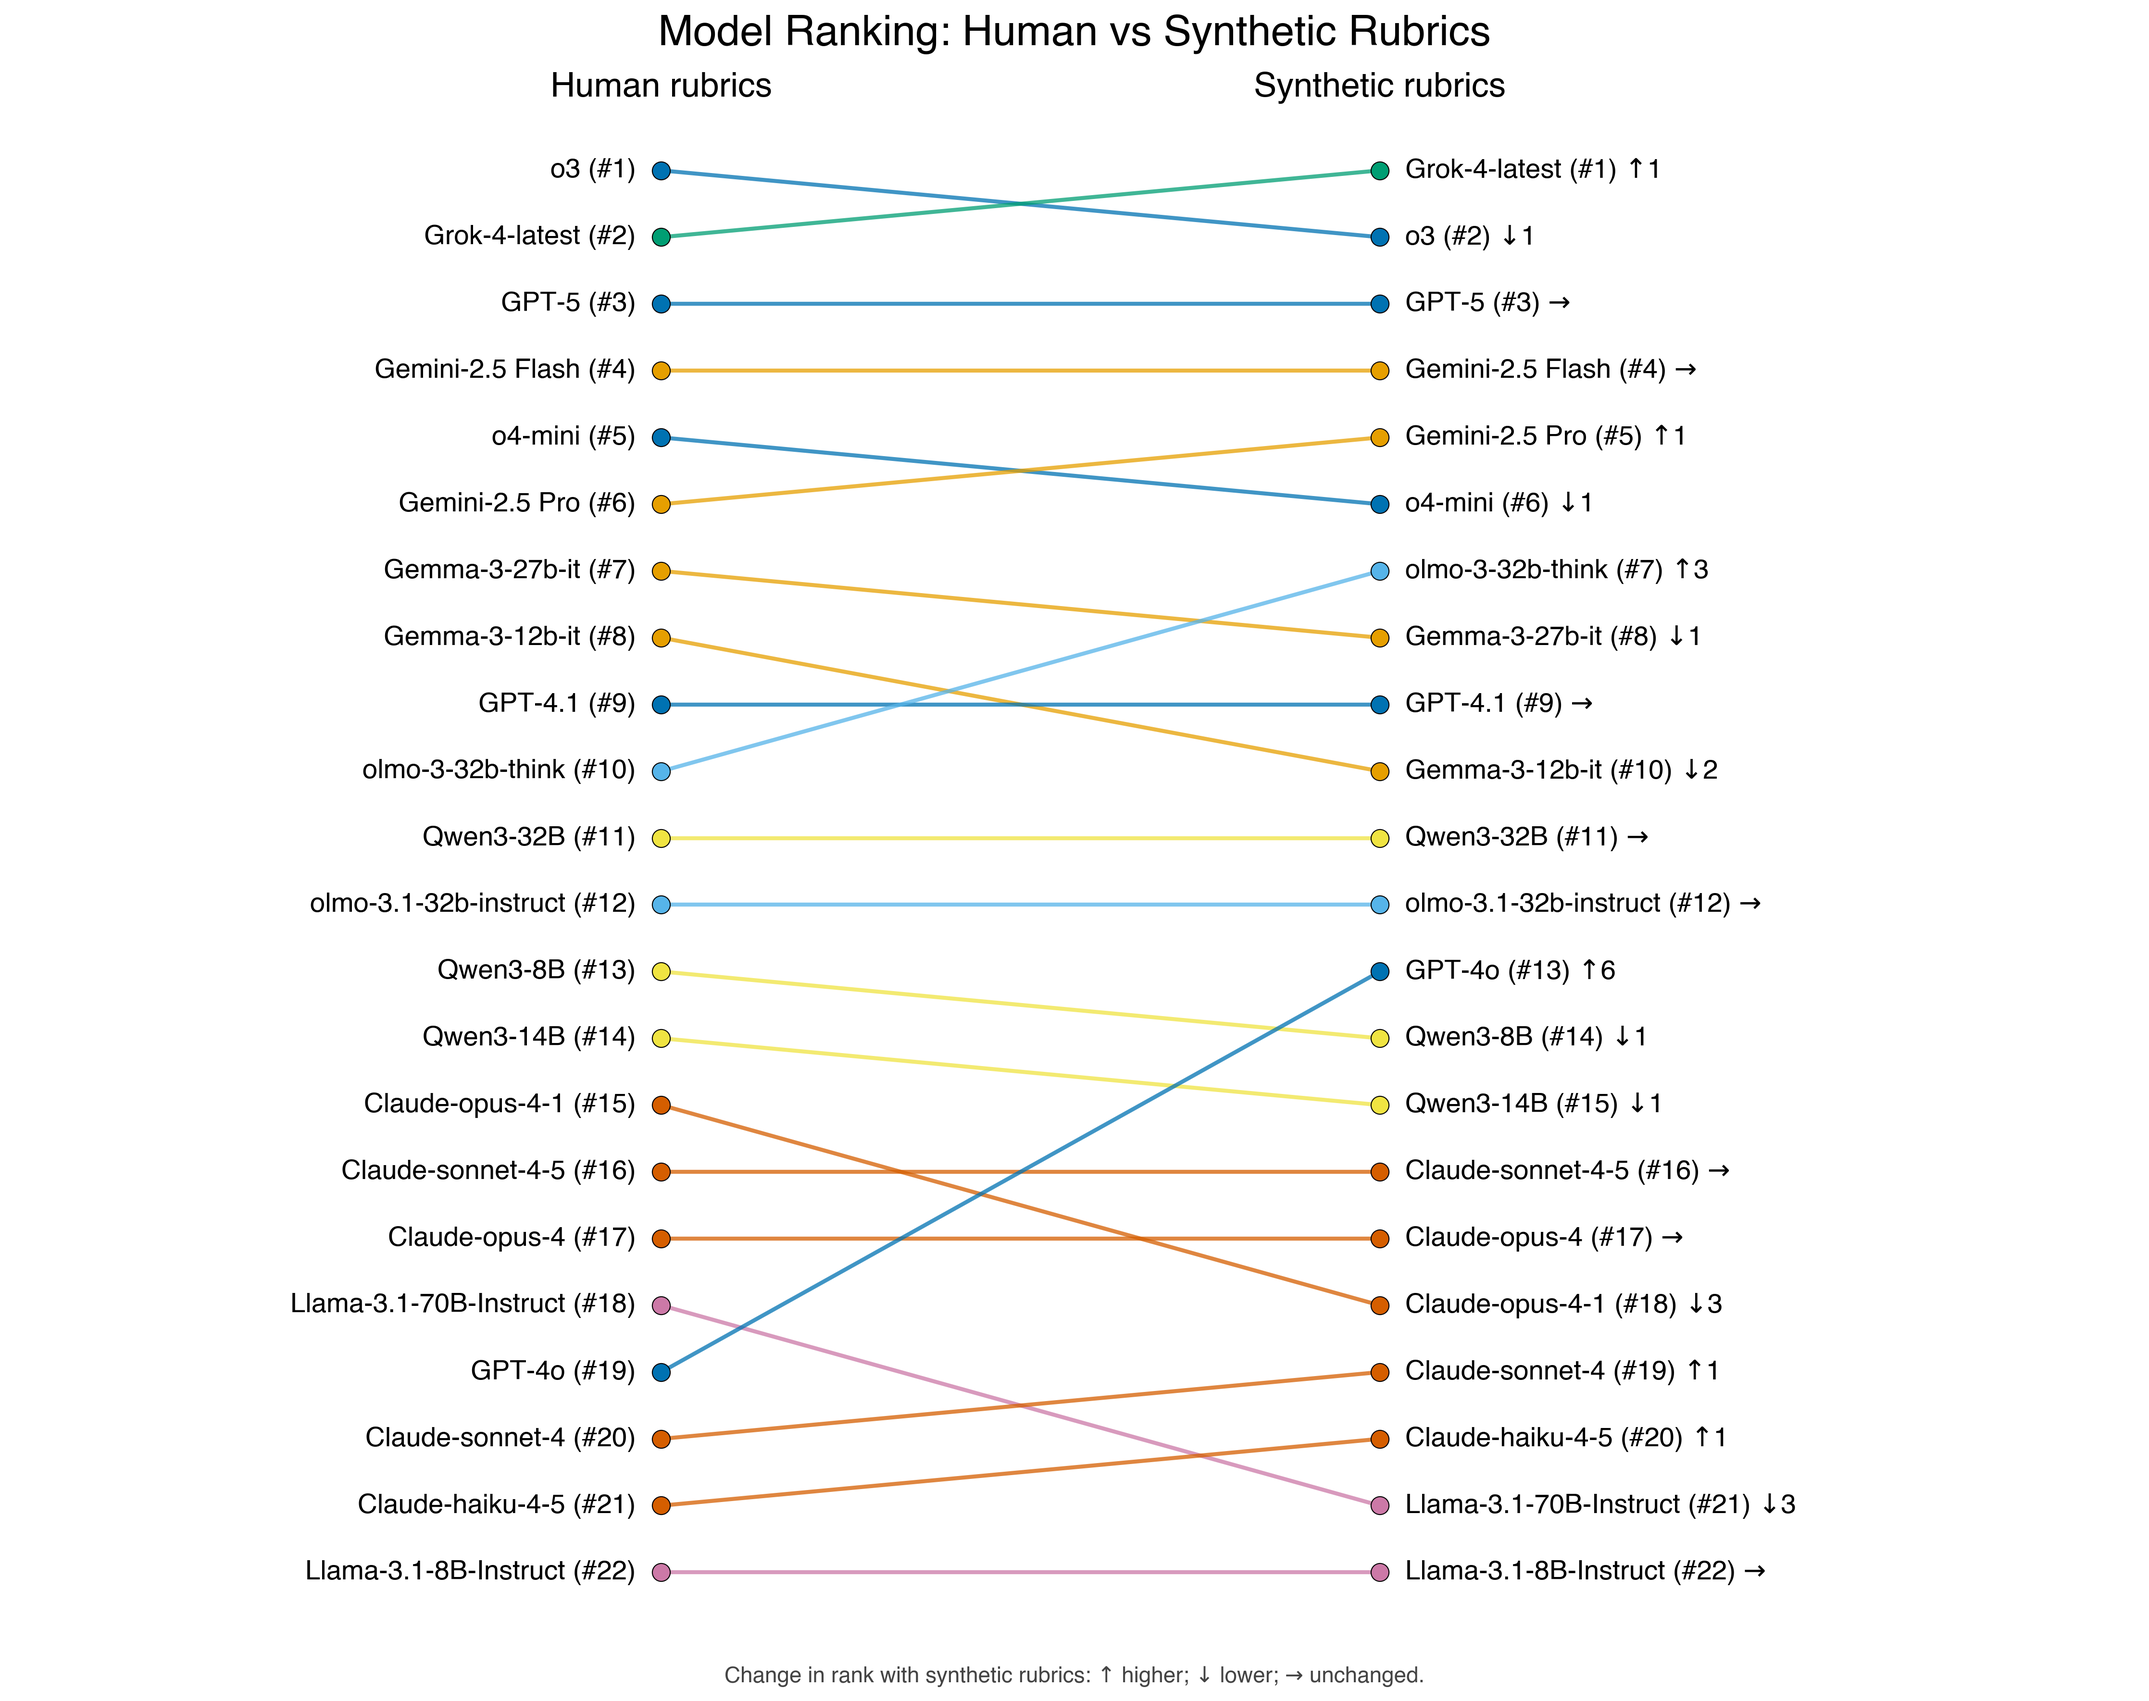
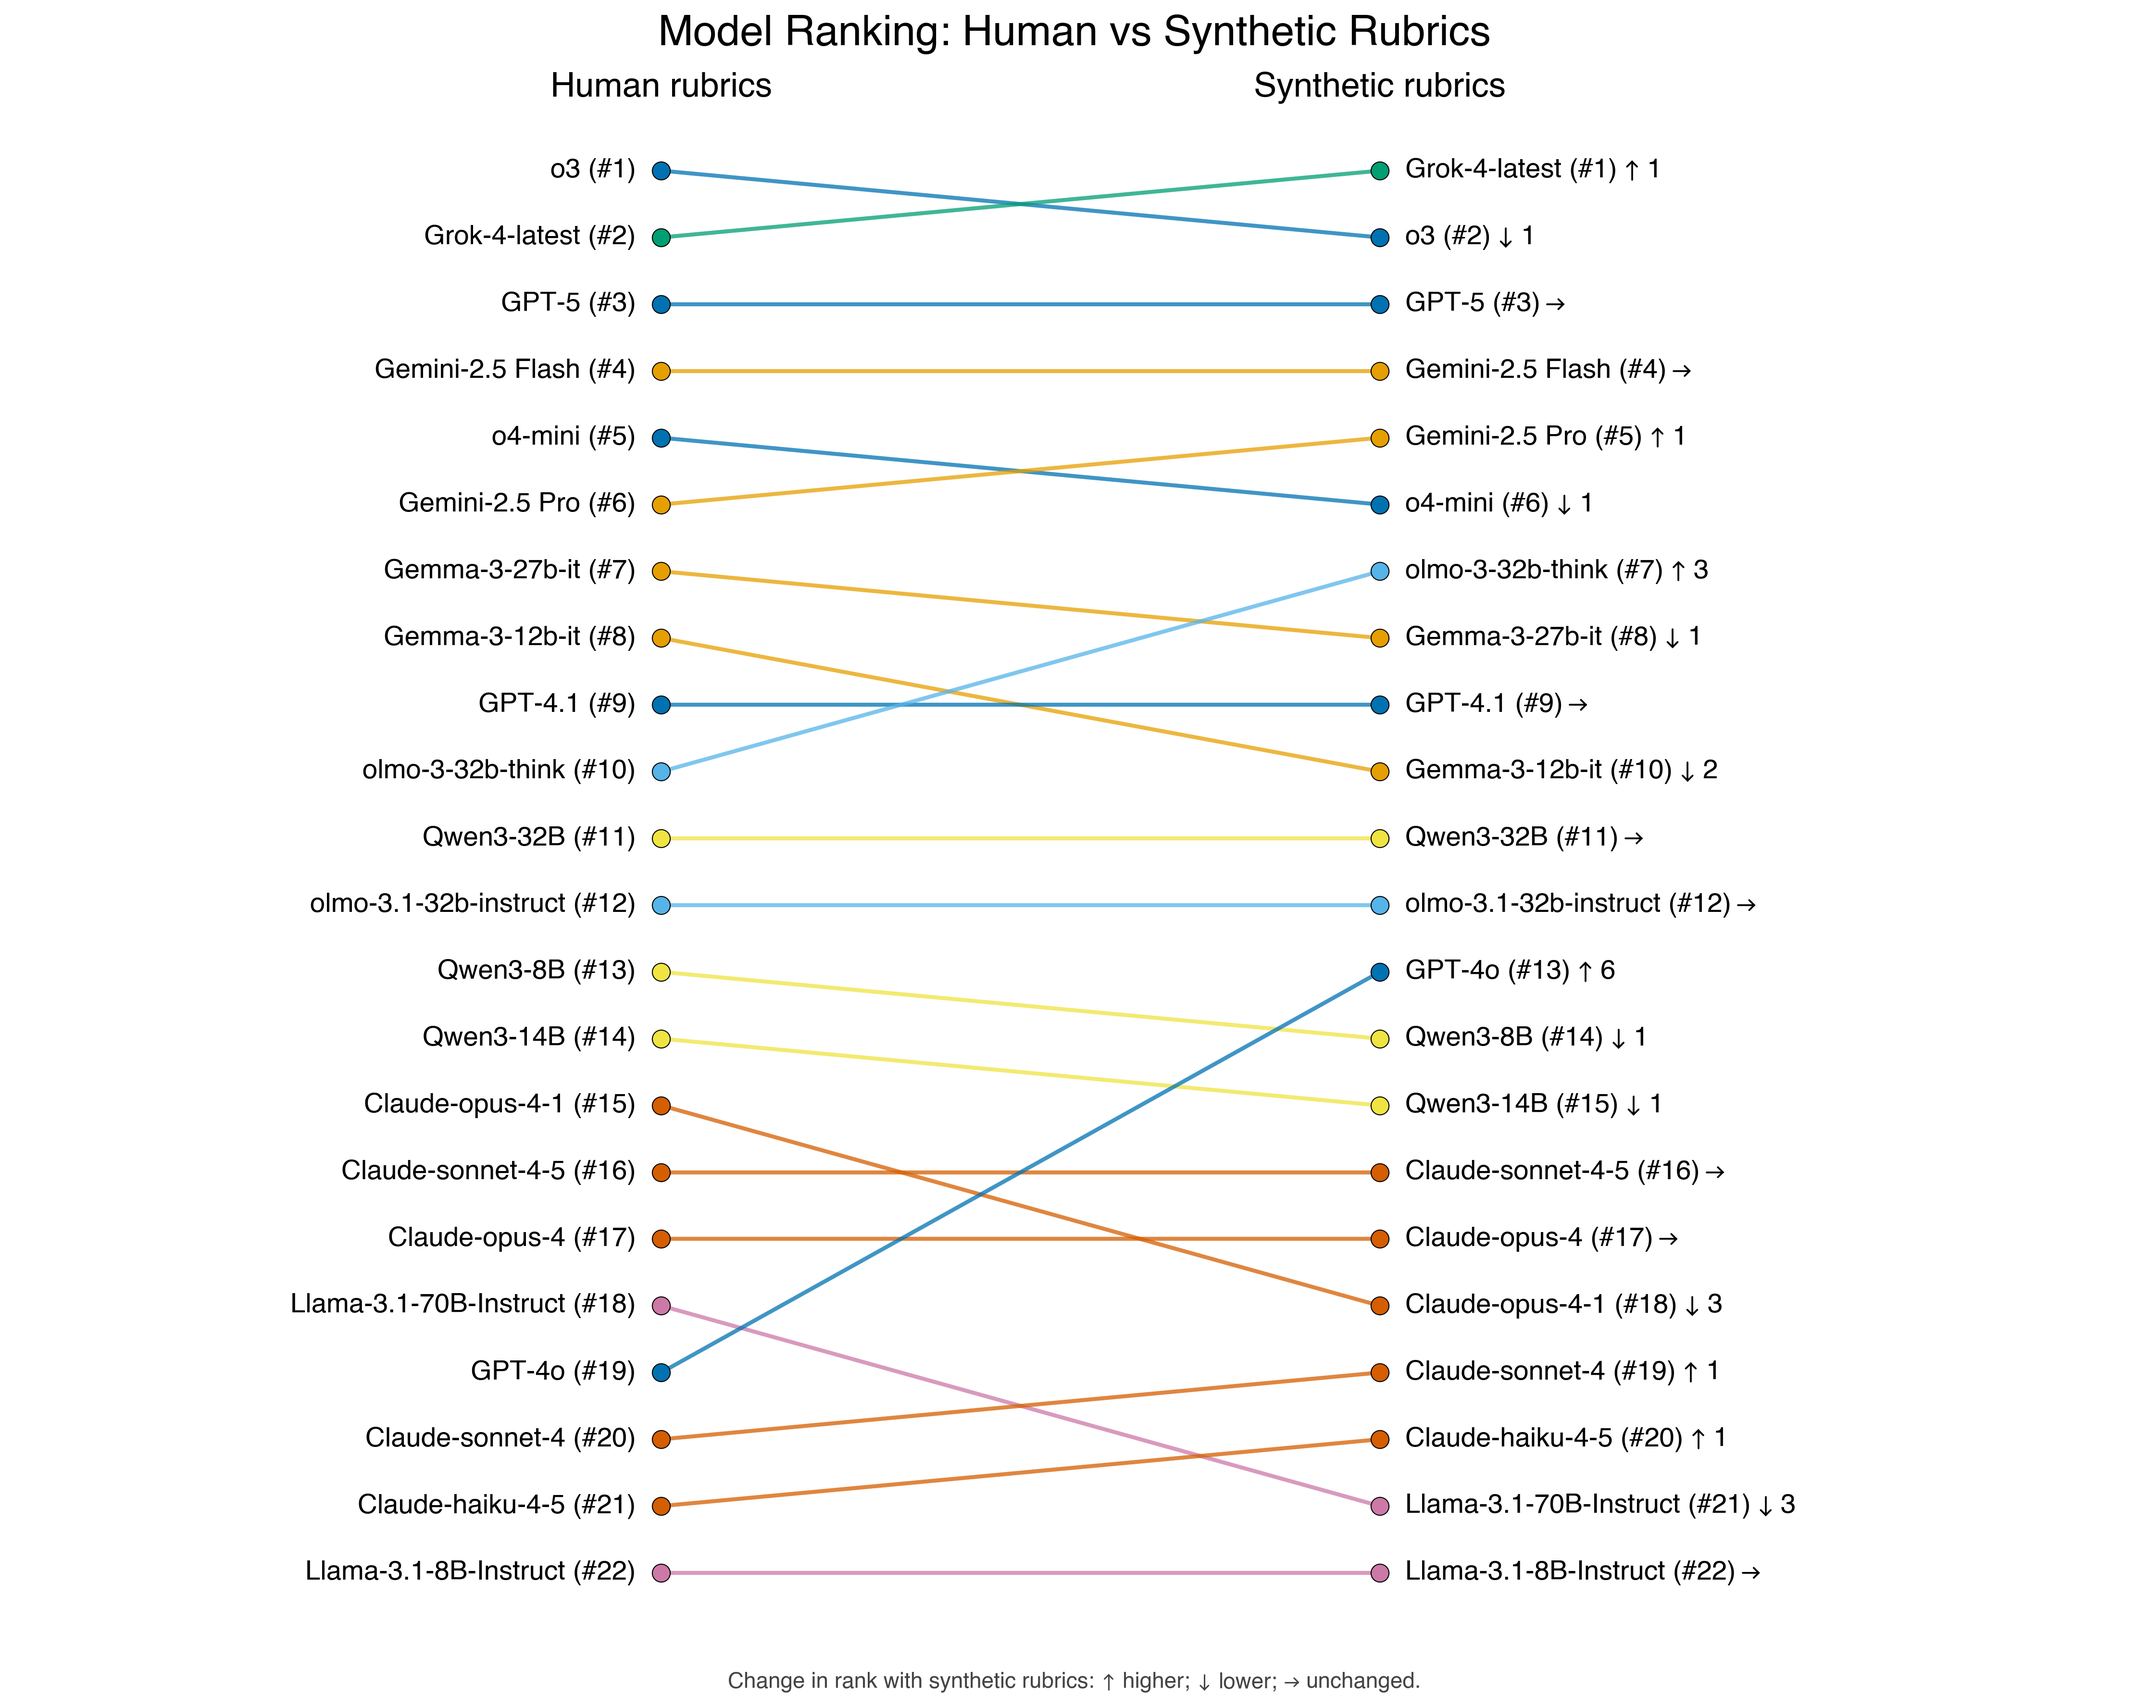
Draw Figure 5b arrows as font-independent vector paths

diff --git a/Analysis/figure5/slopegraph_rank_change.py b/Analysis/figure5/slopegraph_rank_change.py
@@ -3,8 +3,42 @@
 
 Adapted from the original Figure 5 slopegraph_rank_change.py. Positive rank_change
 means the model ranks higher under synthetic rubrics. Ranks use unrounded means.
+Arrows are vector line paths, so Illustrator need not resolve an arrow font.
 """
 from figure5_common import load_results, parser, save_outputs, setup_plotting
+
+
+def vector_arrow(direction, fontsize, color="black"):
+    """Create a fixed-size open arrow from two polylines, never a text glyph."""
+    from matplotlib.lines import Line2D
+    from matplotlib.offsetbox import DrawingArea
+
+    scale = fontsize / 13.5
+    area = DrawingArea(10 * scale, 12 * scale, 0, 0)
+    points = {
+        "up": ([(5, 1.5), (5, 10.5)], [(2.5, 8), (5, 10.5), (7.5, 8)]),
+        "down": ([(5, 10.5), (5, 1.5)], [(2.5, 4), (5, 1.5), (7.5, 4)]),
+        "right": ([(1, 6), (9, 6)], [(6.5, 8.5), (9, 6), (6.5, 3.5)]),
+    }
+    for segment in points[direction]:
+        x, y = zip(*segment)
+        area.add_artist(Line2D([v * scale for v in x], [v * scale for v in y],
+                               color=color, linewidth=0.9 * scale,
+                               solid_capstyle="round", solid_joinstyle="miter"))
+    return area
+
+
+def rank_label(row, fontsize):
+    from matplotlib.offsetbox import HPacker, TextArea
+
+    change = row["rank_change"]
+    direction = "up" if change > 0 else "down" if change < 0 else "right"
+    children = [TextArea(f"{row['display_name']} (#{row['synthetic_rank']})",
+                         textprops={"fontsize": fontsize}),
+                vector_arrow(direction, fontsize)]
+    if change:
+        children.append(TextArea(str(abs(change)), textprops={"fontsize": fontsize}))
+    return HPacker(children=children, align="center", pad=0, sep=2.5)
 
 
 def main():
@@ -12,9 +46,8 @@ def main():
     config, results, manifest = load_results(args.inputs_dir, args.config)
     font = setup_plotting(config)
     import matplotlib.pyplot as plt
+    from matplotlib.offsetbox import AnnotationBbox, HPacker, TextArea
 
-    # Helvetica on macOS lacks arrow glyphs; use DejaVu Sans for those symbols.
-    arrow_fonts = list(dict.fromkeys([font, "DejaVu Sans"]))
     fig, ax = plt.subplots(figsize=(15, 12))
     for row in sorted(results, key=lambda row: row["human_rank"]):
         color = config["provider_colors"][row["provider"]]
@@ -24,18 +57,24 @@ def main():
                    edgecolor="black", linewidth=0.5, zorder=2)
         ax.text(-0.035, human, f"{row['display_name']} (#{human})",
                 ha="right", va="center", fontsize=13.5)
-        change = row["rank_change"]
-        indicator = f" ↑{change}" if change > 0 else f" ↓{abs(change)}" if change < 0 else " →"
-        ax.text(1.035, synthetic, f"{row['display_name']} (#{synthetic}){indicator}",
-                ha="left", va="center", fontsize=13.5, fontfamily=arrow_fonts)
+        ax.add_artist(AnnotationBbox(rank_label(row, 13.5), (1.035, synthetic),
+                                    xycoords="data", box_alignment=(0, 0.5),
+                                    frameon=False, pad=0, annotation_clip=False))
     ax.set_xlim(-0.9, 2.05)
     ax.set_ylim(len(results) + 0.9, -0.1)
     ax.text(0, 0, "Human rubrics", ha="center", va="bottom", fontsize=17, fontweight="bold")
     ax.text(1, 0, "Synthetic rubrics", ha="center", va="bottom", fontsize=17, fontweight="bold")
     ax.set_title("Model Ranking: Human vs Synthetic Rubrics", fontsize=21, fontweight="bold", pad=26)
     ax.axis("off")
-    fig.text(0.5, 0.024, "Change in rank with synthetic rubrics: ↑ higher; ↓ lower; → unchanged.",
-             ha="center", fontsize=11, color="#444444", fontfamily=arrow_fonts)
+    legend_props = {"fontsize": 11, "color": "#444444"}
+    legend_items = [TextArea("Change in rank with synthetic rubrics:", textprops=legend_props)]
+    for direction, label in (("up", "higher;"), ("down", "lower;"), ("right", "unchanged.")):
+        legend_items.extend([vector_arrow(direction, 11, "#444444"),
+                             TextArea(label, textprops=legend_props)])
+    legend = HPacker(children=legend_items, align="center", pad=0, sep=3)
+    fig.add_artist(AnnotationBbox(legend, (0.5, 0.024), xycoords=fig.transFigure,
+                                 box_alignment=(0.5, 0.5), frameon=False, pad=0,
+                                 annotation_clip=False))
     fig.tight_layout(rect=(0, 0.04, 1, 1))
     save_outputs(fig, args.output_dir, "figure5b", results, config, manifest, font)
 

diff --git a/Analysis/figure5/README.md b/Analysis/figure5/README.md
@@ -17,7 +17,7 @@ python Analysis/figure5/verify_results.py --output-dir Outputs/figure5 \
 
 Alternatively, run the two plotting scripts without arguments to save outputs alongside the scripts. This is how the materials-folder copy was generated. Omit `--figure4-summary` when Figure 4 has not been generated.
 
-Outputs are `figure5a.pdf`, `figure5a.png`, `figure5b.pdf`, `figure5b.png`, `figure5_model_summary.csv`, `rank_change_summary.csv`, and per-panel provenance JSON files. Verification produces `verification_report.json`. PDFs contain vector graphics and embedded fonts; PNGs are 300 dpi. Helvetica is used if available, otherwise DejaVu Sans. Figure 5b uses DejaVu Sans as a fallback for arrow symbols missing from the primary font.
+Outputs are `figure5a.pdf`, `figure5a.png`, `figure5b.pdf`, `figure5b.png`, `figure5_model_summary.csv`, `rank_change_summary.csv`, and per-panel provenance JSON files. Verification produces `verification_report.json`. PDFs contain vector graphics and embedded fonts; PNGs are 300 dpi. Helvetica is used if available, otherwise DejaVu Sans. Figure 5b draws every rank arrow (including the legend) as vector line paths instead of font glyphs, so the arrows remain intact when the PDF is embedded in Illustrator. Model names and numbers remain editable text.
 
 ## Inputs and scoring
 
